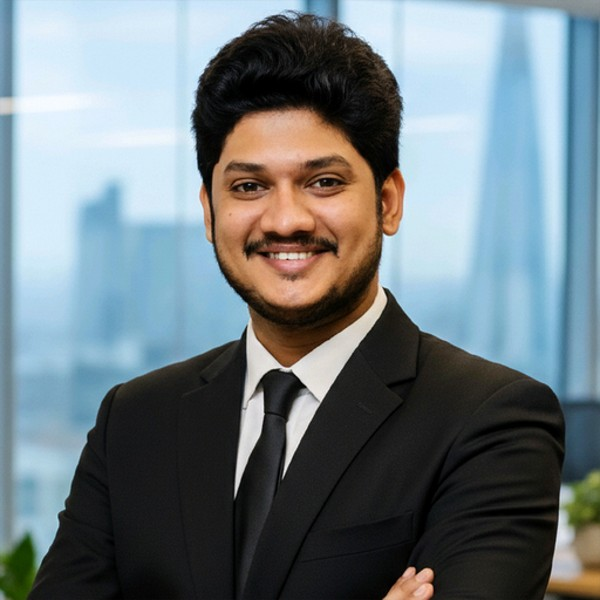
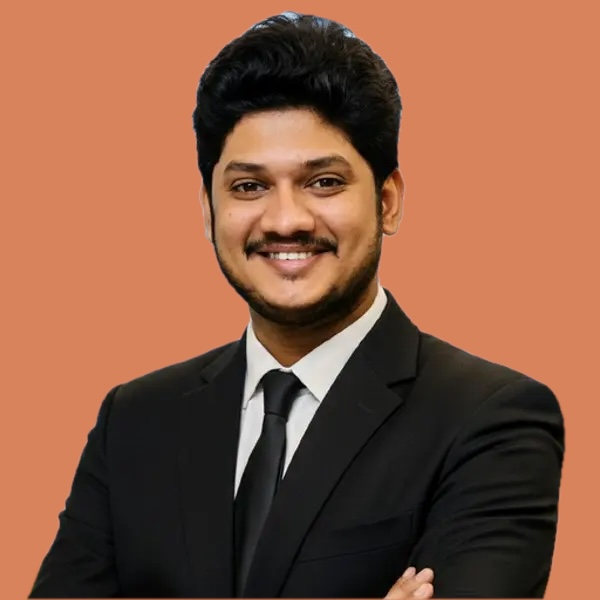
About: refresh Meet Our Team and add technical specialists
- New team photos; remove Jakkie Koekemoer and Kumar Harsh from the core team
- Saswata: Head of Discoverability (AEO & SEO); Aniket: Principal Developer Advocate
- Placeholder (initials) for Suprity Acharyya, Project Manager
- New technical specialists row, as in the sales deck

diff --git a/src/components/page-components/company/team.tsx b/src/components/page-components/company/team.tsx
@@ -1,39 +1,10 @@
 import Image from 'next/image'
 
-type PersonProps = {
-  name: string
-  description: string
-  img: string
-}
-
-const Person = ({ name, description, img }: PersonProps) => {
-  return (
-    <li className="flex flex-col items-center lg:items-start">
-      <div className="w-56 rounded-4xl bg-white/15 p-1 shadow ring-1 ring-black/5 sm:w-64">
-        <div className="rounded-3xl p-1 shadow-md shadow-black/5">
-          <div className="overflow-hidden rounded-3xl shadow-2xl outline-1 -outline-offset-1 outline-black/10">
-            <Image
-              alt={`${name} - ${description}`}
-              src={img}
-              width={260}
-              height={260}
-              className="aspect-square w-full object-cover"
-            />
-          </div>
-        </div>
-      </div>
-      <div className="mt-4 text-center lg:text-left">
-        <h3 className="text-xl font-medium text-white">{name}</h3>
-        <p className="text-lg text-gray-300">{description}</p>
-      </div>
-    </li>
-  )
-}
-
 type TeamMember = {
   name: string
   description: string
-  img: string
+  // No photo yet: show initials instead
+  img?: string
 }
 
 const teamMembers: TeamMember[] = [
@@ -53,14 +24,9 @@ const teamMembers: TeamMember[] = [
     img: '/draft/team/manuel_weiss_draft_dev.jpg',
   },
   {
-    name: 'Jakkie Koekemoer',
-    description: 'Director of Engineering',
-    img: '/draft/team/jakkie_koekemoer_draft_dev.jpg',
-  },
-  {
     name: 'Saswata Baksi',
-    description: 'Discoverability Lead (SEO & GEO)',
-    img: '/draft/team/saswata_baksi_draft_dev.png',
+    description: 'Head of Discoverability (AEO & SEO)',
+    img: '/draft/team/saswata_baksi_draft_dev.jpg',
   },
   {
     name: 'Sthitapragyan Mohanty',
@@ -69,44 +35,131 @@ const teamMembers: TeamMember[] = [
   },
   {
     name: 'Aniket Bhattacharyea',
-    description: 'Developer Advocate',
+    description: 'Principal Developer Advocate',
     img: '/draft/team/aniket_bhattacharyea_draft_dev.jpg',
-  },
-  {
-    name: 'Kumar Harsh',
-    description: 'Developer Advocate',
-    img: '/draft/team/kumar_harsh_draft_dev.jpg',
   },
   {
     name: 'Shane Cullen',
     description: 'Developmental Editor',
     img: '/draft/team/shane_cullen_draft_dev.jpg',
   },
+  {
+    name: 'Suprity Acharyya',
+    description: 'Project Manager',
+  },
 ]
+
+// Technical specialists from our expert network
+const specialists = [
+  { name: 'Aykut B.', img: 'aykut_bulgu_draft_dev.jpg' },
+  { name: 'Damaso S.', img: 'damaso_sanoja_draft_dev.jpg' },
+  { name: 'Kevin K.', img: 'kevin_kimani_draft_dev.jpg' },
+  { name: 'Kumar H.', img: 'kumar_harsh_draft_dev.jpg' },
+  { name: 'Lucien C.', img: 'lucien_chemaly_draft_dev.jpg' },
+  { name: 'Manish H.', img: 'manish_hatwalne_draft_dev.jpg' },
+  { name: 'Thinus S.', img: 'thinus_swart_draft_dev.jpg' },
+  { name: 'Vivek M.', img: 'vivek_maskara_draft_dev.jpg' },
+]
+
+const NETWORK_SIZE = 300
+
+const initials = (name: string) =>
+  name
+    .split(/[\s,]+/)
+    .slice(0, 2)
+    .map((part) => part[0])
+    .join('')
 
 const Team = () => {
   return (
-    <div className="bg-gradient-brand py-12 text-center lg:py-32 lg:text-left">
-      <div className="mx-auto max-w-7xl px-4 sm:px-6 lg:px-8">
-        <h2 className="subheader-light">Meet Our Team</h2>
-        <p className="paragraph-light max-w-3xl text-lg">
-          Our team is composed of dedicated professionals, each bringing unique
-          skills and expertise to drive our mission forward.
-        </p>
+    <section className="bg-[#f4f1f8] py-14 sm:py-20">
+      <div className="mx-auto max-w-7xl px-6 lg:px-8">
+        <div className="text-center lg:text-left">
+          <h2 className="subheader-mobile-gradient sm:subheader-gradient">
+            Meet Our Team
+          </h2>
+          <p className="mt-3 max-w-3xl text-lg text-gray-600 max-lg:mx-auto">
+            Our team is composed of dedicated professionals, each bringing
+            unique skills and expertise to drive our mission forward.
+          </p>
+        </div>
 
-        <hr className="mt-6 border-t border-gray-200/20" />
-        <ul className="mx-auto mt-16 grid grid-cols-1 gap-8 gap-y-12 sm:grid-cols-2 md:grid-cols-3 lg:mx-0 lg:grid-cols-4">
-          {teamMembers.map((member) => (
-            <Person
-              key={member.name}
-              name={member.name}
-              description={member.description}
-              img={member.img}
-            />
-          ))}
-        </ul>
+        {/* Core team on the brand gradient */}
+        <div className="bg-gradient-brand relative isolate mt-10 overflow-hidden rounded-3xl px-6 py-10 shadow-xl sm:px-10">
+          <div
+            aria-hidden="true"
+            className="absolute -top-24 -right-24 -z-10 h-72 w-72 rounded-full bg-amber-300/20 blur-3xl"
+          />
+          <p className="font-code text-center text-sm font-semibold tracking-widest text-white/90 uppercase lg:text-left">
+            Our core team, from strategy to delivery
+          </p>
+          <ul className="mt-10 grid grid-cols-2 gap-x-6 gap-y-10 sm:grid-cols-3 lg:grid-cols-4">
+            {teamMembers.map((member) => (
+              <li key={member.name} className="text-center">
+                <div className="mx-auto size-28 overflow-hidden rounded-full bg-white/15 shadow-lg ring-4 ring-white/80 sm:size-32">
+                  {member.img ? (
+                    <Image
+                      alt={`${member.name} - ${member.description}`}
+                      src={member.img}
+                      width={256}
+                      height={256}
+                      className="size-full object-cover"
+                    />
+                  ) : (
+                    <span
+                      role="img"
+                      aria-label={`${member.name} - ${member.description}`}
+                      className="font-code flex size-full items-center justify-center text-3xl font-semibold text-white"
+                    >
+                      {initials(member.name)}
+                    </span>
+                  )}
+                </div>
+                <h3 className="mt-4 text-lg font-semibold text-white">
+                  {member.name}
+                </h3>
+                <p className="mt-1 text-base text-white/80">
+                  {member.description}
+                </p>
+              </li>
+            ))}
+          </ul>
+        </div>
+
+        {/* Technical specialists */}
+        <div className="mt-14">
+          <h3 className="font-code text-secondary text-center text-2xl font-semibold lg:text-left">
+            Our Technical Specialists
+          </h3>
+          <p className="mt-2 text-center text-lg text-gray-600 lg:text-left">
+            Plus subject matter experts from our network of {NETWORK_SIZE}+
+            developers, matched to your niche.
+          </p>
+          <ul className="mt-8 grid grid-cols-3 gap-x-4 gap-y-8 sm:grid-cols-5 lg:grid-cols-9">
+            {specialists.map((person) => (
+              <li key={person.name} className="text-center">
+                <Image
+                  alt={`${person.name}, Draft.dev technical specialist`}
+                  src={`/draft/team/specialists/${person.img}`}
+                  width={160}
+                  height={160}
+                  className="mx-auto size-20 rounded-full bg-white object-cover shadow-md ring-2 ring-white"
+                />
+                <p className="mt-3 text-base text-gray-700">{person.name}</p>
+              </li>
+            ))}
+            <li className="text-center">
+              <span className="bg-gradient-brand font-code mx-auto flex size-20 items-center justify-center rounded-full text-xl font-semibold text-white shadow-md ring-2 ring-white">
+                +{NETWORK_SIZE - specialists.length}
+              </span>
+              <p className="text-secondary mt-3 text-base font-semibold">
+                more experts
+              </p>
+            </li>
+          </ul>
+        </div>
       </div>
-    </div>
+    </section>
   )
 }
 
